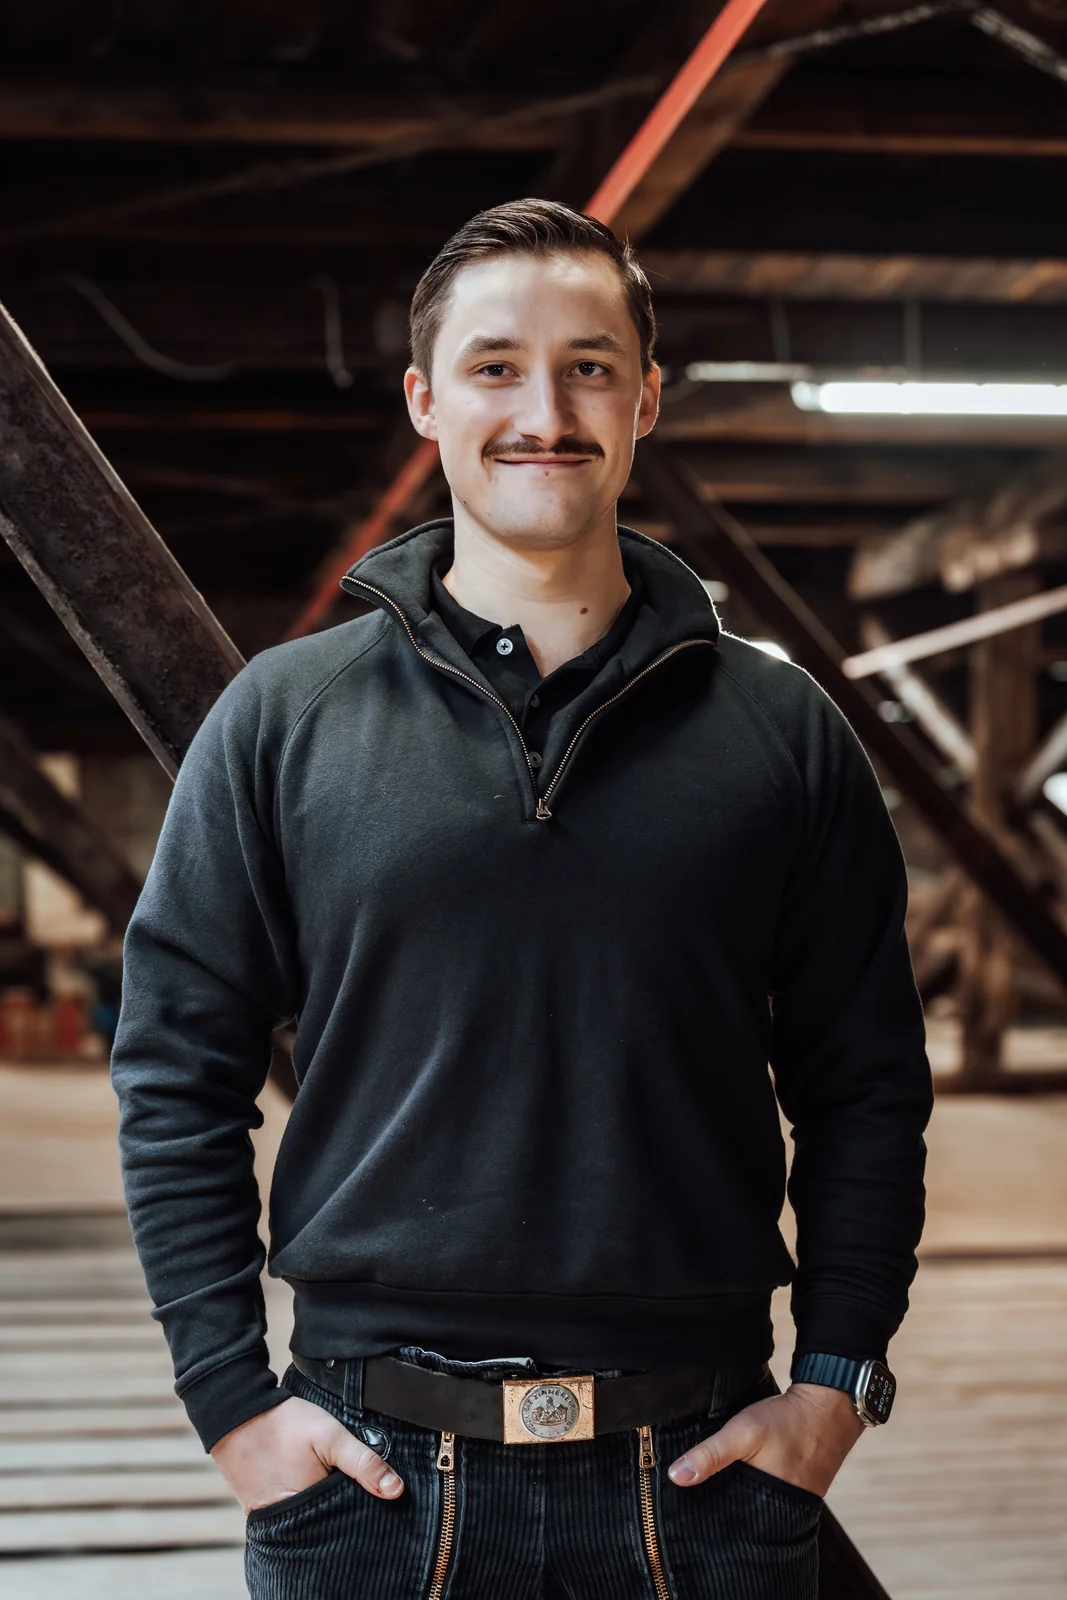
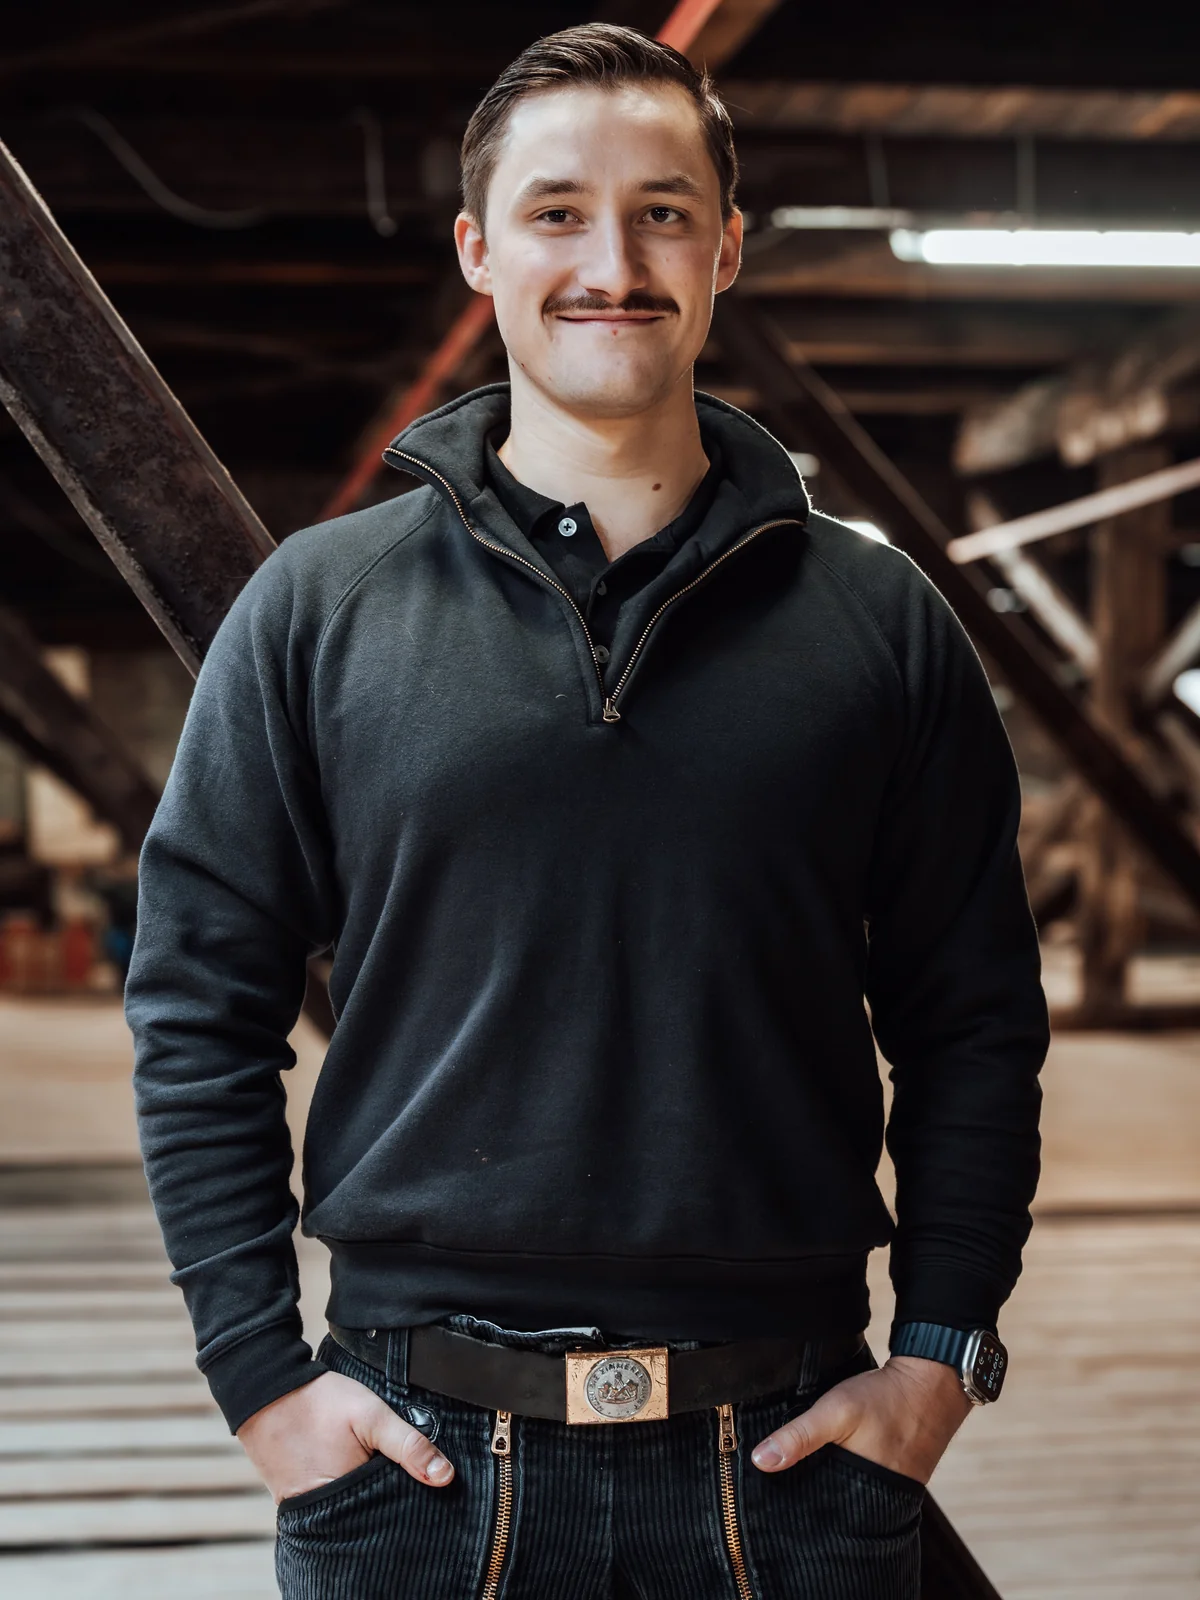
Design: Portrait enger beschnitten, Haaransatz bis Guertel
Die Datei ist jetzt exakt 3:4 statt 2:3 und direkt aus dem 4000x6000
Original geschnitten, obere Kante knapp ueber den Haaren, untere Kante
auf der Bildunterkante. Damit sind Guertelschnalle und die beiden
goldenen Reissverschluesse der Zimmererhose im Bild.

Weil die Datei den gewuenschten Ausschnitt schon enthaelt, laeuft das
Seitenverhaeltnis nun auf jeder Breite gleich. Der bisherige 4:5
Beschnitt auf schmalen Screens hat den Guertel abgeschnitten.

diff --git a/index.html b/index.html
@@ -229,14 +229,14 @@
     #empathie-inner { flex-direction: column; align-items: center; gap: 30px; }
     #empathie-foto { width: 100%; max-width: min(300px, 72vw); }
     #empathie-text { width: 100%; max-width: 620px; }
-    .empathie-foto-clip { aspect-ratio: 4 / 5; }            /* schmal: kompakter Ausschnitt, spart Hoehe */
-    #empathie-img { object-position: 50% 22%; }
+    /* Die Datei ist bereits exakt auf 3:4 beschnitten, Haaransatz oben,
+       Guertel und Reissverschluesse unten. Deshalb ueberall dasselbe
+       Seitenverhaeltnis, damit auf keiner Breite etwas wegfaellt. */
+    .empathie-foto-clip { aspect-ratio: 3 / 4; }
     @media (min-width: 960px) {
       #empathie-inner { flex-direction: row; align-items: flex-start; gap: 48px; }
       #empathie-foto { flex: 0 0 auto; width: 34%; max-width: 360px; }
       #empathie-text { flex: 1 1 auto; max-width: none; }
-      .empathie-foto-clip { aspect-ratio: 2 / 3; }          /* breit: volles Hochformat neben dem Text */
-      #empathie-img { object-position: 50% 45%; }
     }
     @media (max-width: 620px) {
       #empathie-cta { width: 100%; justify-content: center; text-align: center; }
